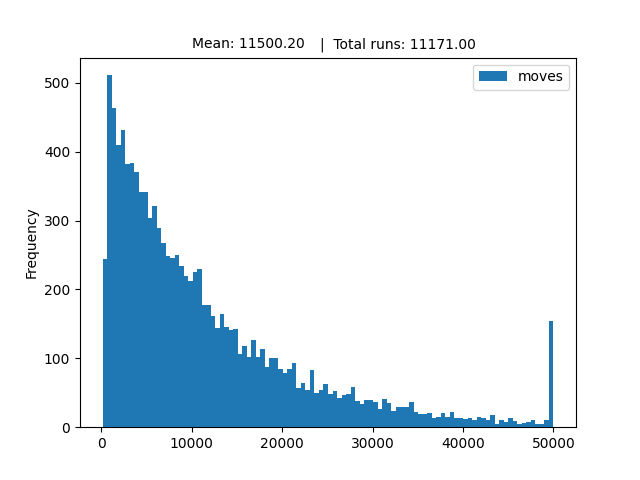
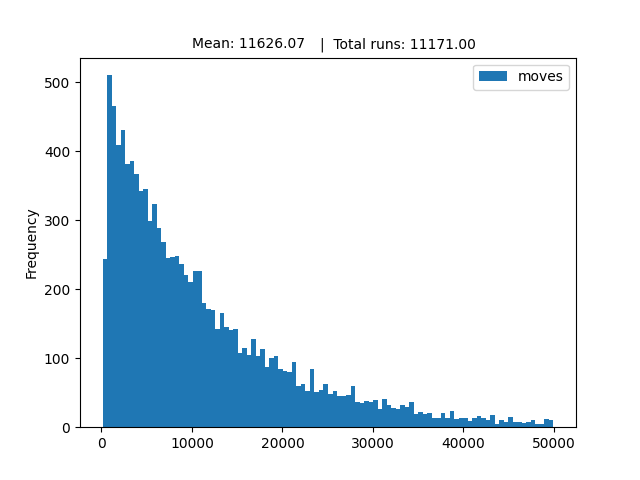
README.md added to see the output of the experiments.

diff --git a/code/visualisation/histogram.py b/code/visualisation/histogram.py
@@ -5,16 +5,16 @@ def histogram_plot(path_board: str, path_output: str):
     # Read the data from the csv file
     data = pd.read_csv(path_board)
     
-    # Adjust moves greater than 50,000 to 50,000
-    data.loc[data['moves'] > 50000, 'moves'] = 50000
-
+    # Filter moves greater than 50,000 for plotting
+    data_filtered = data[data['moves'] <= 50000]
+    
     # Calculate total moves and mean
     moves = data['moves']
     data_total = len(moves)
     data_mean = moves.mean()
 
     # Plot the histogram
-    histogram_t = data.plot.hist(bins=30, column=['moves'])
+    histogram_t = data_filtered.plot.hist(bins=100, column=['moves'])
     plot_t = histogram_t.get_figure()
 
     # Add total runs and mean to the plot

diff --git a/code/experiments/README.md b/code/experiments/README.md
@@ -13,12 +13,37 @@ In de map gameboards staan vervolgens een aantal gameboardfiles, deze staan van 
 
 ## Experiments
 ### Random
-De benodigde input om de volgende resultaten van het random algoritme krijgen.
+De benodigde input om de volgende resultaten van het random algoritme krijgen. Let hierbij erop dat in de main.py board = "6x6_1". Verder staat de binsize in histogram.py op 100.  
+
+In dit experiment heeft het random algoritme een uur gedraaid. Het aantal runs staat gelijk aan het aantal oplossingen wat het random algoritme heeft gevonden in dit uur.   
+
+Het random algoritme probeert door middel van het kiezen van een random voertuig en een random directie tot een oplossing te komen. 
 
 ```
 python3 main.py 6 gameboards/Rushhour6x6_1.csv random histogram
 ```
 ![exp_6x6_1_random_graph_moves.png](https://github.com/pluumenbrownie/rush_hour/blob/main/results/exp_6x6_1_random_graph_moves.png)
 
+### Random optimized
+Om deze output te krijgen is de benodigde input van het random_optimized algoritme nodig. Let hierbij erop dat in de main.py board = "6x6_1". Verder staat de binsize in histogram.py op 30. Deze beslissing is gemaakt doordat de grafiek anders vertekend werd doordat de meeste oplossingen een eigen bin hadden en sommige 2 bins.   
 
+In dit experiment heeft het random_optimized algoritme een uur gedraaid. Het aantal runs staat gelijk aan het aantal oplossingen wat het random algoritme heeft gevonden in dit uur.   
 
+Het random_optimized algoritme voert als eerst het random algoritme uit. Vervolgens verwijderd het alle states waarin het al eerder is geweest.  
+
+```
+python3 main.py 6 gameboards/Rushhour6x6_1.csv random_optimized histogram
+```
+![exp_6x6_1_random_optimized_graph_moves.png](https://github.com/pluumenbrownie/rush_hour/blob/main/results/exp_6x6_1_random_optimized_graph_moves.png)
+
+### Greedy
+De benodigde input om de volgende resultaten van het random algoritme krijgen. Let hierbij erop dat in de main.py board = "6x6_1". Verder staat de binsize in histogram.py op 100.  
+
+In dit experiment heeft het random algoritme een uur gedraaid. Het aantal runs staat gelijk aan het aantal oplossingen wat het random algoritme heeft gevonden in dit uur.   
+
+Het greedy algoritme probeert door middel van twee heuristieken tot een oplossing te komen. Eerst kijkt het of de rode auto kan bewegen, vervolgens kijkt het of de auto die voor de rode auto staat kan bewegen en daarna kiest het een random voertuig. Zo probeert het algoritme sneller tot een oplossing te komen dan het random algoritme. 
+
+```
+python3 main.py 6 gameboards/Rushhour6x6_1.csv greedy histogram
+```
+![exp_6x6_1_greedy_graph_moves.png](https://github.com/pluumenbrownie/rush_hour/blob/main/results/exp_6x6_1_greedy_graph_moves.png)
